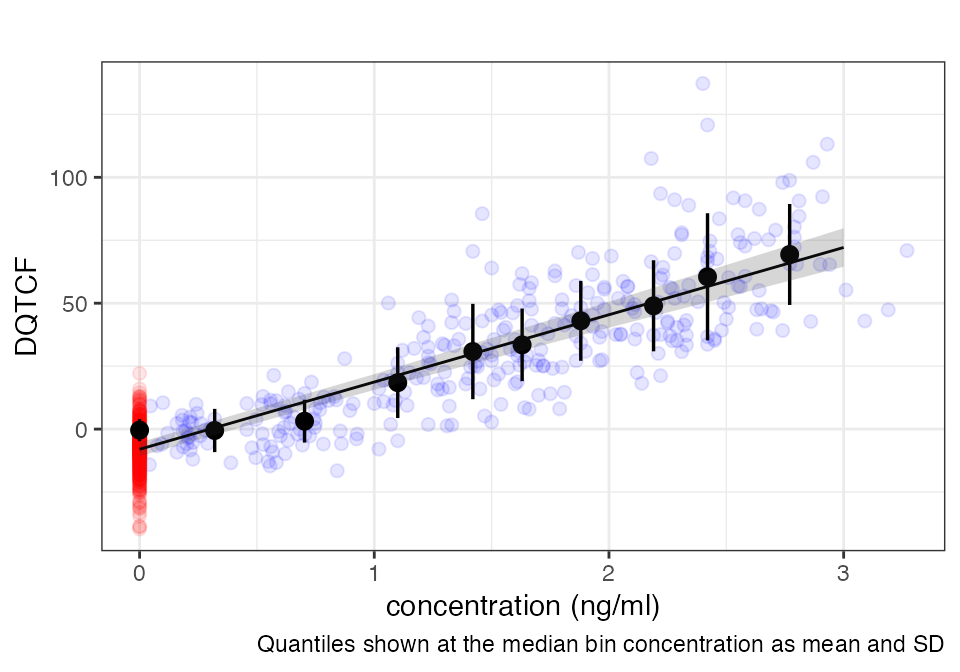
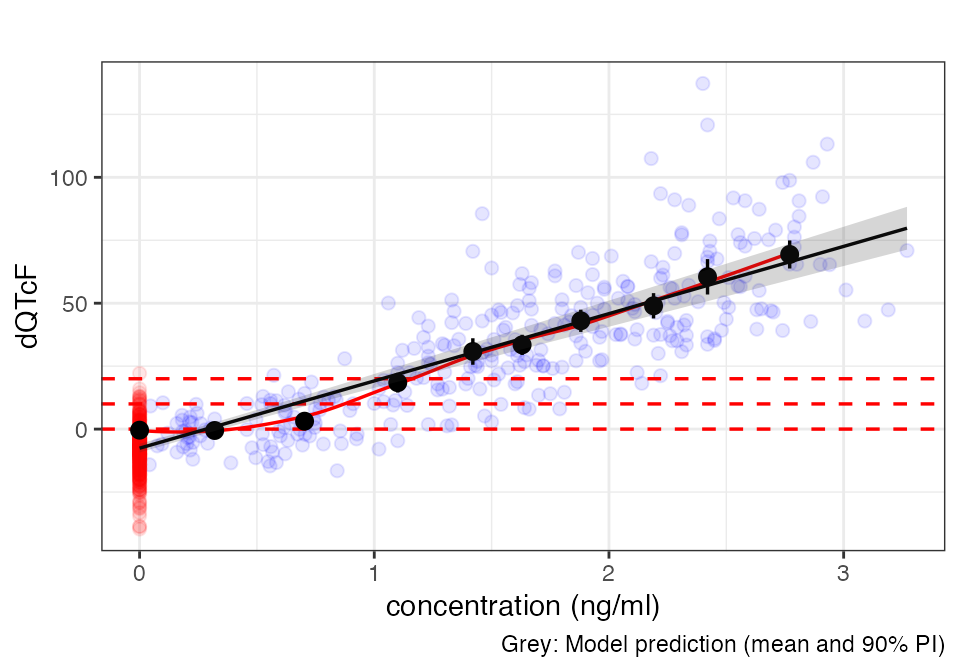
re-build site

diff --git a/docs/articles/cqtc.html b/docs/articles/cqtc.html
@@ -169,14 +169,6 @@ where the placebo group mean
 for each time points is subtracted from the individual
 <math display="inline" xmlns="http://www.w3.org/1998/Math/MathML"><semantics><mrow><mi>Δ</mi><mi>Q</mi><mi>T</mi><mi>c</mi></mrow><annotation encoding="application/x-tex">\Delta
 QTc</annotation></semantics></math> of the active group.</p>
-<p>In the linear mixed-effects modeling part of the tutorial, we will
-even discard the data from the placebo treatment entirely, and base the
-c-QTc analysis on
-<math display="inline" xmlns="http://www.w3.org/1998/Math/MathML"><semantics><mrow><mi>Δ</mi><mi>Q</mi><mi>T</mi><mi>c</mi></mrow><annotation encoding="application/x-tex">\Delta QTc</annotation></semantics></math>,
-i.e., the intra-individual difference to pre-treatment baseline, because
-this is a very common analysis type. Refer to the original publication
-by Parkinson, et al., 2025 to follow their full (and decidedly more
-appropriate) analysis strategy.</p>
 <p>To make the dofetilide data accessible for modeling using the
 aforementioned pre-specified model, is extended adding the following
 columns:</p>
@@ -289,7 +281,7 @@ automatically show only a summary of the data set:</p>
 <h3 id="assessment-of-hysteresis">Assessment of hysteresis<a class="anchor" aria-label="anchor" href="#assessment-of-hysteresis"></a>
 </h3>
 <div class="sourceCode" id="cb8"><pre class="downlit sourceCode r">
-<code class="sourceCode R"><span><span class="fu"><a href="../reference/cqtc_time_course_plot.html">cqtc_time_course_plot</a></span><span class="op">(</span><span class="va">dof</span>, <span class="st">"QTCF"</span><span class="op">)</span></span></code></pre></div>
+<code class="sourceCode R"><span><span class="fu"><a href="../reference/cqtc_time_course_plot.html">cqtc_time_course_plot</a></span><span class="op">(</span><span class="va">dof</span>, <span class="st">"DQTCF"</span><span class="op">)</span></span></code></pre></div>
 <p><img src="cqtc_files/figure-html/unnamed-chunk-7-1.png" class="r-plt" alt="" width="480"></p>
 <div class="sourceCode" id="cb9"><pre class="downlit sourceCode r">
 <code class="sourceCode R"><span><span class="fu"><a href="../reference/cqtc_hysteresis_plot.html">cqtc_hysteresis_plot</a></span><span class="op">(</span><span class="va">dof</span>, <span class="st">"DDQTCF"</span><span class="op">)</span></span></code></pre></div>
@@ -315,17 +307,7 @@ automatically show only a summary of the data set:</p>
 <span>  data <span class="op">=</span> <span class="va">dof</span><span class="op">)</span></span>
 <span></span>
 <span><span class="co"># parameter estimates</span></span>
-<span><span class="va">temp</span> <span class="op">&lt;-</span> <span class="fu"><a href="https://rdrr.io/r/base/as.data.frame.html" class="external-link">as.data.frame</a></span><span class="op">(</span><span class="fu"><a href="https://rdrr.io/r/stats/coef.html" class="external-link">coef</a></span><span class="op">(</span><span class="fu"><a href="https://rdrr.io/r/base/summary.html" class="external-link">summary</a></span><span class="op">(</span><span class="va">mod</span>, ddf<span class="op">=</span><span class="st">"Kenward-Roger"</span><span class="op">)</span><span class="op">)</span><span class="op">)</span></span>
-<span><span class="fu"><a href="https://rdrr.io/r/base/colnames.html" class="external-link">colnames</a></span><span class="op">(</span><span class="va">temp</span><span class="op">)</span> <span class="op">&lt;-</span> <span class="fu"><a href="https://rdrr.io/r/base/c.html" class="external-link">c</a></span><span class="op">(</span><span class="st">"estimate"</span>, <span class="st">"se"</span>, <span class="st">"df"</span>, <span class="st">"t"</span>, <span class="st">"p"</span><span class="op">)</span></span>
-<span><span class="va">parameters</span> <span class="op">&lt;-</span> <span class="va">temp</span> <span class="op"><a href="https://magrittr.tidyverse.org/reference/pipe.html" class="external-link">%&gt;%</a></span></span>
-<span>  <span class="fu"><a href="https://dplyr.tidyverse.org/reference/mutate.html" class="external-link">mutate</a></span><span class="op">(</span></span>
-<span>    rse <span class="op">=</span> <span class="va">se</span><span class="op">/</span><span class="va">estimate</span> <span class="op">*</span> <span class="fl">100</span>,</span>
-<span>      lci <span class="op">=</span> <span class="va">estimate</span> <span class="op">+</span> <span class="fu"><a href="https://rdrr.io/r/stats/TDist.html" class="external-link">qt</a></span><span class="op">(</span><span class="fl">0.025</span>, df <span class="op">=</span> <span class="va">df</span><span class="op">)</span> <span class="op">*</span> <span class="va">se</span>,</span>
-<span>      uci <span class="op">=</span> <span class="va">estimate</span> <span class="op">+</span> <span class="fu"><a href="https://rdrr.io/r/stats/TDist.html" class="external-link">qt</a></span><span class="op">(</span><span class="fl">0.975</span>, df <span class="op">=</span> <span class="va">df</span><span class="op">)</span> <span class="op">*</span> <span class="va">se</span>,</span>
-<span>      p <span class="op">=</span> <span class="fu"><a href="https://rdrr.io/r/base/ifelse.html" class="external-link">ifelse</a></span><span class="op">(</span><span class="va">p</span> <span class="op">&lt;</span> <span class="fl">0.001</span>, <span class="st">"&lt; 0.001"</span>, <span class="fu"><a href="https://rdrr.io/r/base/Round.html" class="external-link">signif</a></span><span class="op">(</span><span class="va">p</span>, <span class="fl">3</span><span class="op">)</span><span class="op">)</span><span class="op">)</span> <span class="op"><a href="https://magrittr.tidyverse.org/reference/pipe.html" class="external-link">%&gt;%</a></span></span>
-<span>  <span class="fu"><a href="https://dplyr.tidyverse.org/reference/select.html" class="external-link">select</a></span><span class="op">(</span><span class="va">estimate</span>, <span class="va">lci</span>, <span class="va">uci</span>, <span class="va">rse</span>, <span class="va">p</span><span class="op">)</span></span>
-<span></span>
-<span><span class="va">parameters</span> <span class="op"><a href="https://magrittr.tidyverse.org/reference/pipe.html" class="external-link">%&gt;%</a></span> </span>
+<span><span class="fu"><a href="../reference/cqtc_model_table.html">cqtc_model_table</a></span><span class="op">(</span><span class="va">mod</span><span class="op">)</span> <span class="op"><a href="https://magrittr.tidyverse.org/reference/pipe.html" class="external-link">%&gt;%</a></span> </span>
 <span>  <span class="fu"><a href="https://rdrr.io/pkg/knitr/man/kable.html" class="external-link">kable</a></span><span class="op">(</span>caption <span class="op">=</span> <span class="st">"Model parameters"</span><span class="op">)</span></span></code></pre></div>
 <table class="table">
 <caption>Model parameters</caption>
@@ -502,26 +484,8 @@ automatically show only a summary of the data set:</p>
 </table>
 <div class="sourceCode" id="cb12"><pre class="downlit sourceCode r">
 <code class="sourceCode R"><span></span>
-<span><span class="va">grid</span> <span class="op">&lt;-</span> <span class="fu"><a href="https://rdrr.io/pkg/lsmeans/man/ref.grid.html" class="external-link">ref.grid</a></span><span class="op">(</span></span>
-<span>  <span class="va">mod</span>,</span>
-<span>  at <span class="op">=</span> <span class="fu"><a href="https://rdrr.io/r/base/list.html" class="external-link">list</a></span><span class="op">(</span></span>
-<span>    CONC <span class="op">=</span> <span class="fu"><a href="https://rdrr.io/r/base/seq.html" class="external-link">seq</a></span><span class="op">(</span><span class="fl">0</span>, <span class="fu"><a href="https://rdrr.io/r/base/Extremes.html" class="external-link">max</a></span><span class="op">(</span><span class="va">dof</span><span class="op">$</span><span class="va">CONC</span>, na.rm <span class="op">=</span> <span class="cn">TRUE</span><span class="op">)</span><span class="op">)</span>,</span>
-<span>    ACTIVE <span class="op">=</span> <span class="fu"><a href="https://rdrr.io/r/base/c.html" class="external-link">c</a></span><span class="op">(</span><span class="cn">FALSE</span>, <span class="cn">TRUE</span><span class="op">)</span>,</span>
-<span>    DPM_BL_QTCF <span class="op">=</span> <span class="fl">0</span><span class="op">)</span><span class="op">)</span></span>
-<span></span>
-<span><span class="va">temp1</span> <span class="op">&lt;-</span> <span class="fu"><a href="https://rdrr.io/r/base/summary.html" class="external-link">summary</a></span><span class="op">(</span><span class="fu">lsmeans</span><span class="fu">::</span><span class="fu"><a href="https://rvlenth.github.io/emmeans/reference/wrappers.html" class="external-link">lsmeans</a></span><span class="op">(</span></span>
-<span>  <span class="va">grid</span>,</span>
-<span>  <span class="fu"><a href="https://rdrr.io/r/base/c.html" class="external-link">c</a></span><span class="op">(</span><span class="st">"CONC"</span>, <span class="st">"ACTIVE"</span><span class="op">)</span>,</span>
-<span>  level <span class="op">=</span> <span class="fl">0.9</span><span class="op">)</span><span class="op">)</span> <span class="op"><a href="https://magrittr.tidyverse.org/reference/pipe.html" class="external-link">%&gt;%</a></span></span>
-<span>  <span class="fu"><a href="https://dplyr.tidyverse.org/reference/filter.html" class="external-link">filter</a></span><span class="op">(</span><span class="va">ACTIVE</span> <span class="op">==</span> <span class="cn">TRUE</span><span class="op">)</span></span>
-<span></span>
-<span><span class="va">dof</span> <span class="op"><a href="https://magrittr.tidyverse.org/reference/pipe.html" class="external-link">%&gt;%</a></span></span>
-<span>  <span class="fu"><a href="../reference/cqtc_ntile_plot.html">cqtc_ntile_plot</a></span><span class="op">(</span>param <span class="op">=</span> <span class="st">"DQTCF"</span>, n <span class="op">=</span> <span class="fl">10</span><span class="op">)</span> <span class="op">+</span></span>
-<span>  <span class="fu"><a href="https://ggplot2.tidyverse.org/reference/geom_path.html" class="external-link">geom_line</a></span><span class="op">(</span>data <span class="op">=</span> <span class="va">temp1</span>, <span class="fu"><a href="https://ggplot2.tidyverse.org/reference/aes.html" class="external-link">aes</a></span><span class="op">(</span>x <span class="op">=</span> <span class="va">CONC</span>, y <span class="op">=</span> <span class="va">lsmean</span><span class="op">)</span><span class="op">)</span> <span class="op">+</span></span>
-<span>  <span class="fu"><a href="https://ggplot2.tidyverse.org/reference/geom_ribbon.html" class="external-link">geom_ribbon</a></span><span class="op">(</span></span>
-<span>    data <span class="op">=</span> <span class="va">temp1</span>,</span>
-<span>    <span class="fu"><a href="https://ggplot2.tidyverse.org/reference/aes.html" class="external-link">aes</a></span><span class="op">(</span>x <span class="op">=</span> <span class="va">CONC</span>, ymin <span class="op">=</span> <span class="va">lower.CL</span>, ymax <span class="op">=</span> <span class="va">upper.CL</span>, y <span class="op">=</span> <span class="va">lsmean</span><span class="op">)</span>,</span>
-<span>    alpha <span class="op">=</span> <span class="fl">0.2</span><span class="op">)</span></span></code></pre></div>
+<span><span class="co"># Model plot</span></span>
+<span><span class="fu"><a href="../reference/cqtc_model_plot.html">cqtc_model_plot</a></span><span class="op">(</span><span class="va">dof</span>, <span class="va">mod</span>, loess <span class="op">=</span> <span class="cn">T</span>, refline <span class="op">=</span> <span class="fu"><a href="https://rdrr.io/r/base/c.html" class="external-link">c</a></span><span class="op">(</span><span class="fl">0</span>, <span class="fl">10</span>, <span class="fl">20</span><span class="op">)</span><span class="op">)</span></span></code></pre></div>
 <p><img src="cqtc_files/figure-html/unnamed-chunk-10-1.png" class="r-plt" alt="" width="480"></p>
 </div>
 <div class="section level3">

diff --git a/docs/articles/cqtc.md b/docs/articles/cqtc.md
@@ -103,13 +103,6 @@ where the placebo group mean $`\Delta QTc`$ for each time points is
 subtracted from the individual $`\Delta
 QTc`$ of the active group.
 
-In the linear mixed-effects modeling part of the tutorial, we will even
-discard the data from the placebo treatment entirely, and base the c-QTc
-analysis on $`\Delta QTc`$, i.e., the intra-individual difference to
-pre-treatment baseline, because this is a very common analysis type.
-Refer to the original publication by Parkinson, et al., 2025 to follow
-their full (and decidedly more appropriate) analysis strategy.
-
 To make the dofetilide data accessible for modeling using the
 aforementioned pre-specified model, is extended adding the following
 columns:
@@ -241,7 +234,7 @@ rr_plot(dof, "QTCF", group = "ACTIVE")
 ### Assessment of hysteresis
 
 ``` r
-cqtc_time_course_plot(dof, "QTCF")
+cqtc_time_course_plot(dof, "DQTCF")
 ```
 
 ![](cqtc_files/figure-html/unnamed-chunk-7-1.png)
@@ -270,17 +263,7 @@ mod <- lmerTest::lmer(
   data = dof)
 
 # parameter estimates
-temp <- as.data.frame(coef(summary(mod, ddf="Kenward-Roger")))
-colnames(temp) <- c("estimate", "se", "df", "t", "p")
-parameters <- temp %>%
-  mutate(
-    rse = se/estimate * 100,
-      lci = estimate + qt(0.025, df = df) * se,
-      uci = estimate + qt(0.975, df = df) * se,
-      p = ifelse(p < 0.001, "< 0.001", signif(p, 3))) %>%
-  select(estimate, lci, uci, rse, p)
-
-parameters %>% 
+cqtc_model_table(mod) %>% 
   kable(caption = "Model parameters")
 ```
 
@@ -310,26 +293,8 @@ Model parameters
 
 ``` r
 
-grid <- ref.grid(
-  mod,
-  at = list(
-    CONC = seq(0, max(dof$CONC, na.rm = TRUE)),
-    ACTIVE = c(FALSE, TRUE),
-    DPM_BL_QTCF = 0))
-
-temp1 <- summary(lsmeans::lsmeans(
-  grid,
-  c("CONC", "ACTIVE"),
-  level = 0.9)) %>%
-  filter(ACTIVE == TRUE)
-
-dof %>%
-  cqtc_ntile_plot(param = "DQTCF", n = 10) +
-  geom_line(data = temp1, aes(x = CONC, y = lsmean)) +
-  geom_ribbon(
-    data = temp1,
-    aes(x = CONC, ymin = lower.CL, ymax = upper.CL, y = lsmean),
-    alpha = 0.2)
+# Model plot
+cqtc_model_plot(dof, mod, loess = T, refline = c(0, 10, 20))
 ```
 
 ![](cqtc_files/figure-html/unnamed-chunk-10-1.png)
